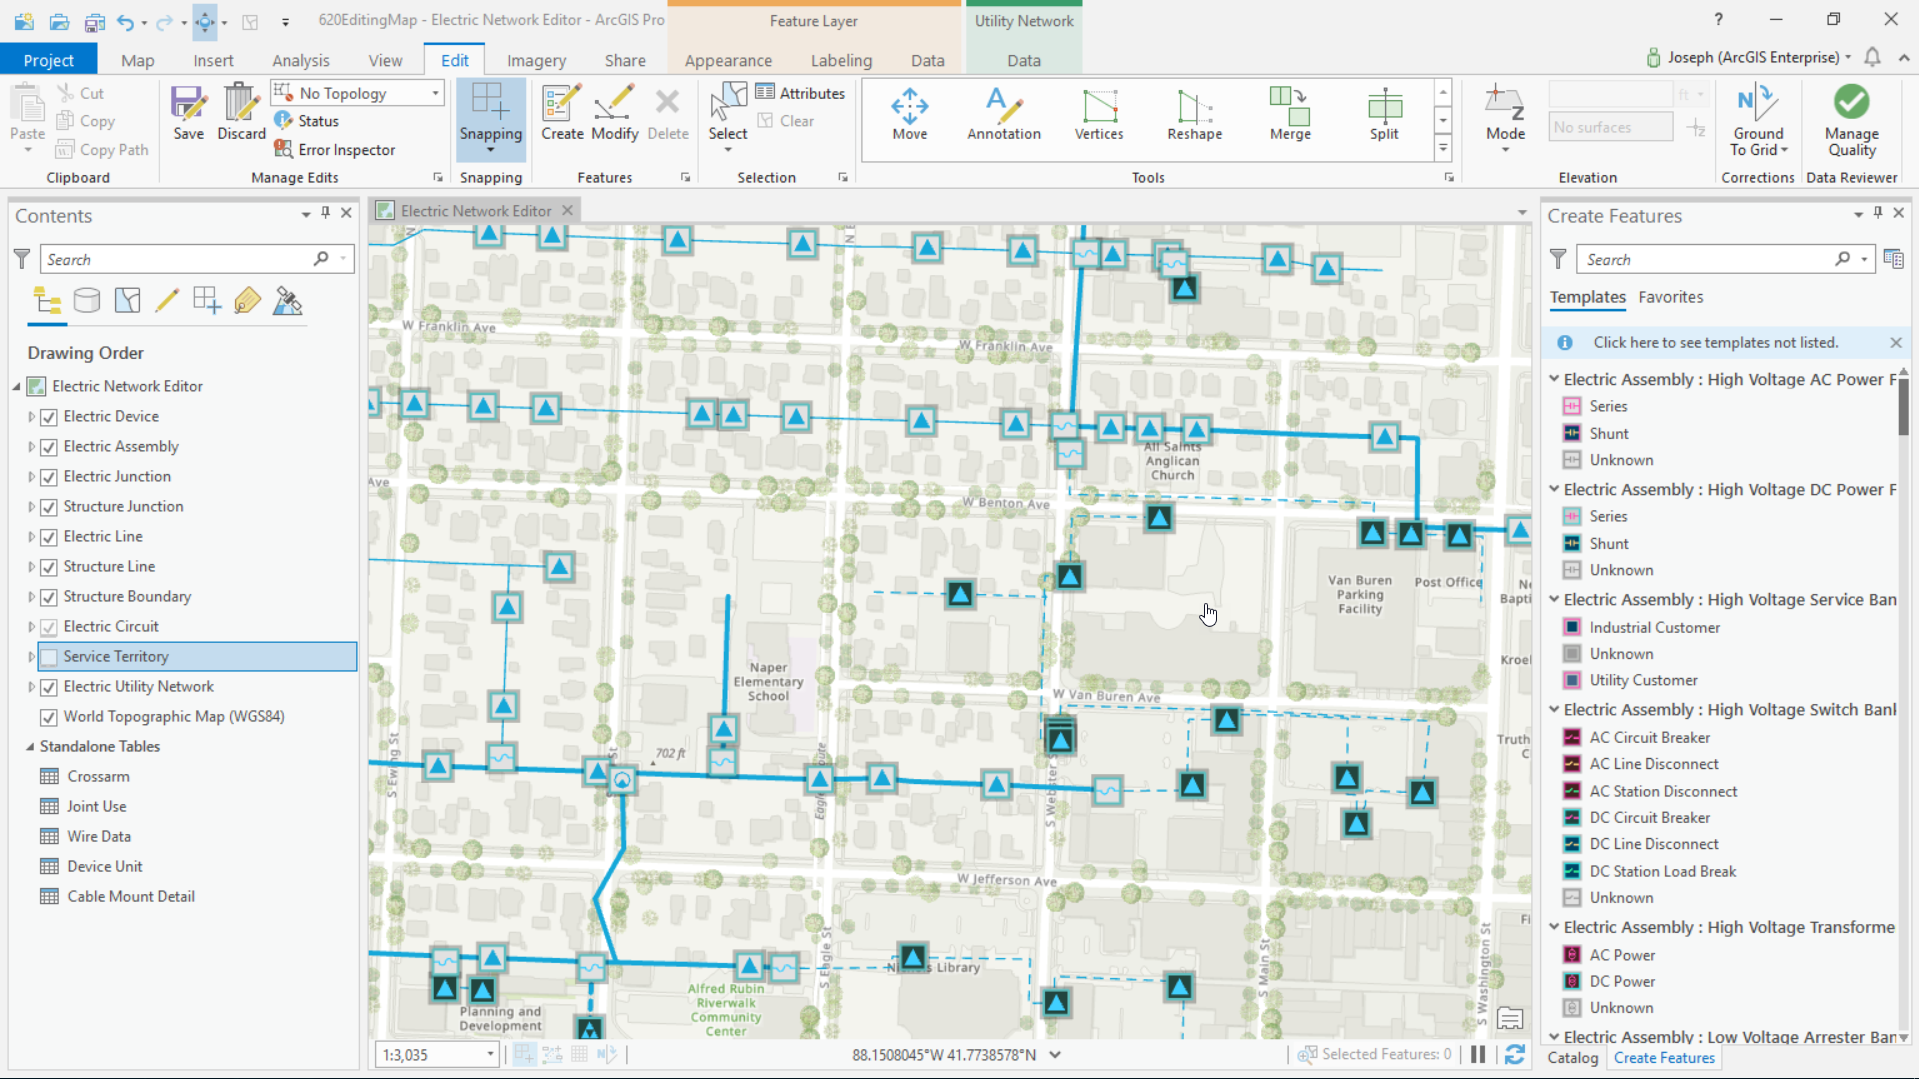
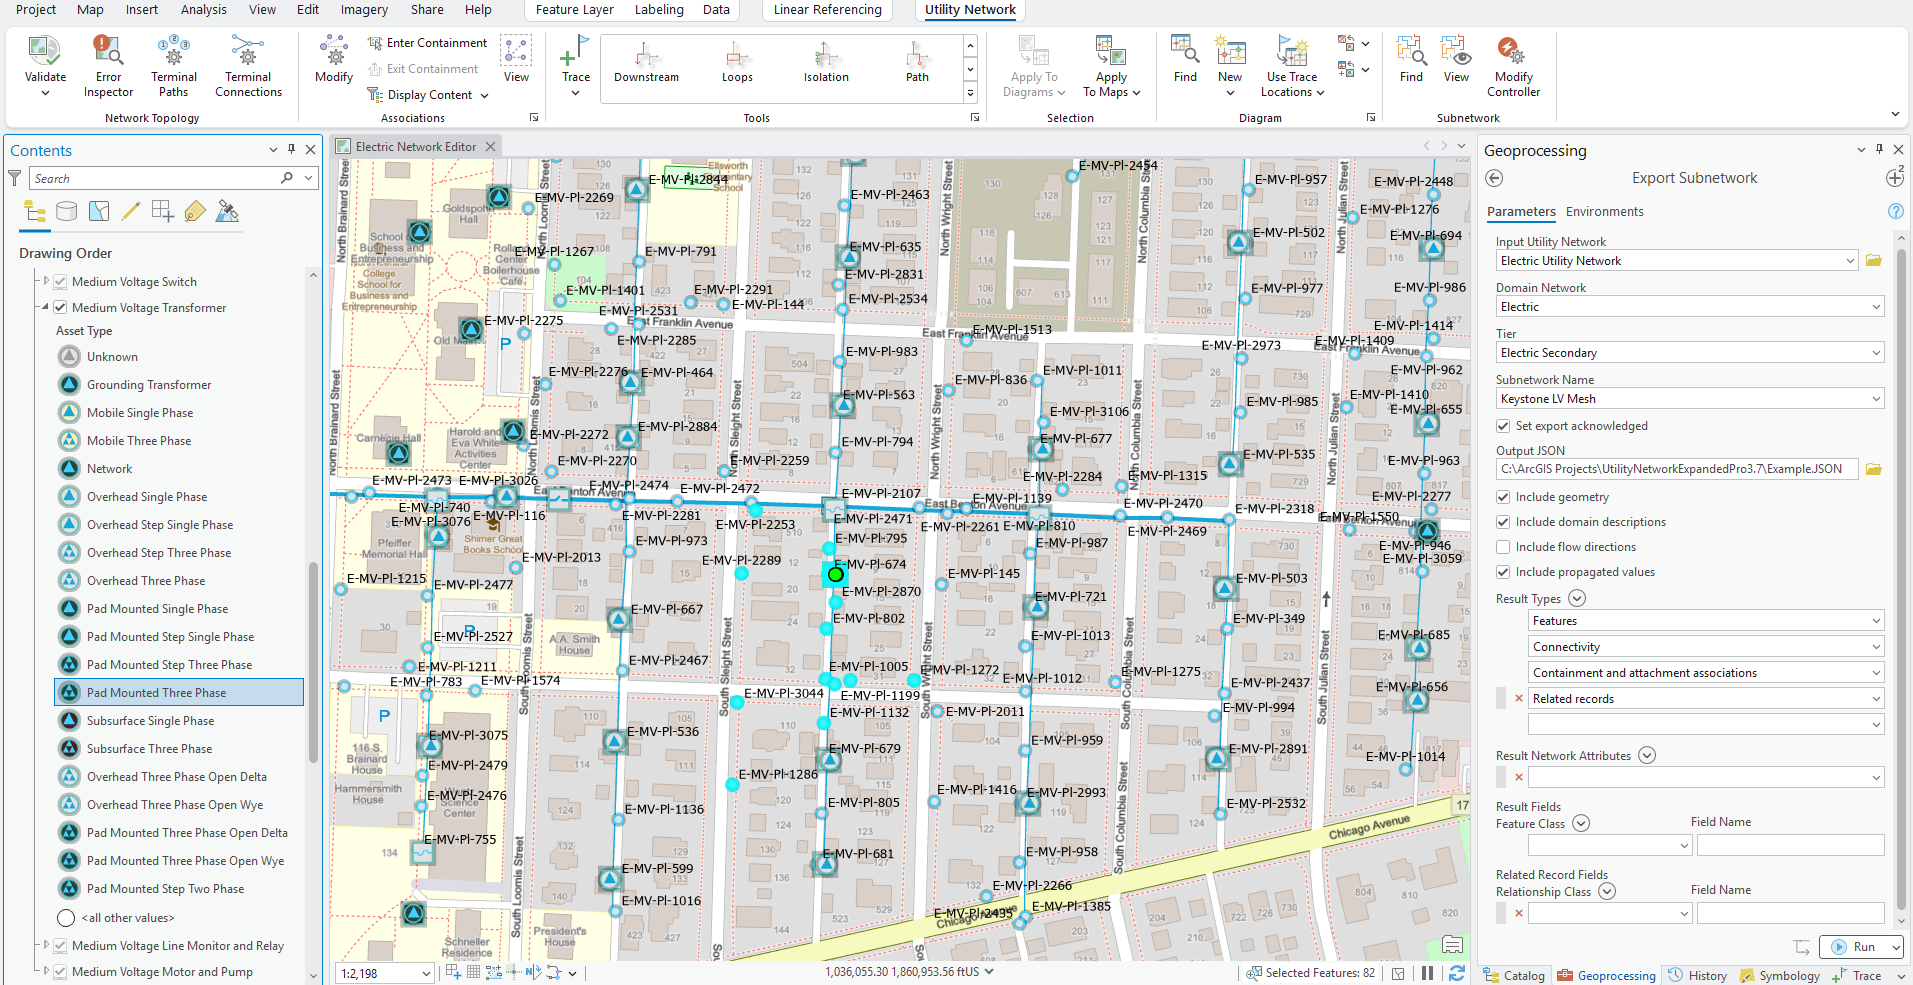
added screensshot

diff --git a/content/posts/2026-05-23-tracing-once-using-everywhere.md b/content/posts/2026-05-23-tracing-once-using-everywhere.md
@@ -2,9 +2,10 @@
 title: "Tracing Once, Using Everywhere: Propagated Values for OMS and ADMS"
 date: 2026-05-23T20:18:00-07:00
 draft: false
-description: "Why propagated values in traces and Export Subnetwork can reduce custom extractor, ETL, and middleware logic for OMS and ADMS integrations."
+description: "Using propagation and propagation resetters so OMS and ADMS get the values they need from a single GIS trace, without schema changes or excess glue code."
 tags:
   - arcgis utility network
+  - arcgis pro
   - oms
   - adms
   - integration
@@ -13,7 +14,8 @@ tags:
 categories:
   - utilities
   - gis
-mermaid: true
+ShowToc: true
+TocOpen: true
 cover:
   image: "/images/hooknose.jpg"
   alt: "Hooknose Peak"
@@ -22,52 +24,92 @@ cover:
 
 # Tracing Once, Using Everywhere: Propagated Values for OMS and ADMS
 
-ArcGIS Utility Network tracing already gives us the path through the network, but OMS and ADMS usually need more than a list of traversed features. Export Subnetwork is intended to produce JSON that external systems can consume, and propagated values let that export carry network-derived answers instead of forcing those systems to recalculate them downstream.
+ArcGIS Utility Network tracing already gives us the path through the network, but OMS and ADMS usually need more than a list of traversed features. Export Subnetwork can produce JSON that external systems consume, and propagation lets that export carry network‑derived answers instead of forcing those systems to recalculate everything downstream.
+
+ArcGIS Pro 3.7 and the 2026 Network Management Release finally closed a gap I’ve seen in a lot of OMS/ADMS projects. For years I’ve watched teams bolt on custom extractors, ETL, and middleware just to answer questions the Utility Network is already capable of answering:
+
+- What’s actually energized on this feeder?  
+- What does this device *see* from a phase/voltage perspective?
+
+With new propagation capabilities wired into traces and Export Subnetwork, we can start treating GIS as **the place where network behavior is modeled**, not just where assets live.
 
 ## Traces are necessary, but not sufficient
 
 A trace is great at answering a structural question: what is connected, and what can be traversed under the current rules. That matters for feeders, switching, outage impact, and operational analysis, but OMS and ADMS also care about the values each feature effectively sees as part of that traced path.
 
-If all we send downstream is a feature list, every extractor, ETL job, or middleware layer ends up re-deriving context that GIS already knows. That is where integrations get heavier than they need to be, especially when the real requirement is simple and the network model already contains the logic needed to compute the answer.
+If all we send downstream is a feature list, every extractor, ETL job, or middleware layer ends up re‑deriving context that GIS already knows. That is where integrations get heavier than they need to be, especially when the real requirement is simple and the network model already contains the logic needed to compute the answer.
 
 ## Connectivity, traversability, and propagation
 
 It helps to keep three ideas separate. Export Subnetwork can return connectivity information based on network features connected through geometric coincidence or connectivity associations, while traces use network attributes and conditions to determine what is actually traversable.
 
-- **Connectivity** is the structural graph: features are linked through geometric coincidence or valid associations in the network model.
-- **Traversability** is connectivity plus rules: the trace only moves through connected features that satisfy barriers, status, phase, or other network-attribute logic.
-- **Propagation** is the payoff: propagators derive values for features downstream of subnetwork controllers as features are traversed during update or analytic events.
+- **Connectivity** is the structural graph: features are linked through geometric coincidence or valid associations in the network model.  
+- **Traversability** is connectivity plus rules: the trace only moves through connected features that satisfy barriers, status, phase, or other network‑attribute logic.  
+- **Propagation** is the payoff: propagators derive values for features downstream of subnetwork controllers as features are traversed during subnetwork updates or analytic traces.
 
-That third part is what makes the result export-friendly for OMS and ADMS.
+That third part is what makes the result export‑friendly for OMS and ADMS.
 
-![Detailed network map with highlighted path](/images/network-detail.png)
+![ArcGIS Pro Utility Network pane screenshot](/images/network-detail.jpg) "Screenshot from ArcGIS Pro © Esri")
 
 ## Why OMS and ADMS need different values
 
-OMS and ADMS often need values that are not a simple copy of what sits on an individual GIS feature, because the useful operational value is frequently a network-derived value rather than a stored edit value. Propagation lets you create measurable fields, assign network attributes, and optionally store propagated values such as an energized phase that is derived from traversal logic.
+OMS and ADMS often need values that are not a simple copy of what sits on an individual GIS feature, because the useful operational value is frequently a **network‑derived** value rather than a stored edit value.
 
-That difference matters in practice. GIS might store configured phase or asset settings one way, while OMS or ADMS needs the effective phase, limiting value, or downstream state as seen from the feeder or controller context.
+A few examples:
+
+- OMS cares which customers are affected on which phases behind a given protection device, not just the raw feature geometry.  
+- ADMS wants the effective phase, limiting voltage, or downstream state as seen from the feeder or controller context, not just whatever is in a single asset field.  
+- Both may expect “as‑energized” or “as‑operated” values that differ from simple as‑built configuration.
+
+Propagation lets you create measurable fields, assign network attributes, and optionally store or export propagated values such as an energized phase that is derived during traversal, instead of being hand‑maintained on every feature.
 
 ## When code freezes block schema changes
 
 I’ve worked with utilities, a GIS vendor, and an ADMS vendor where neither side wanted to make a schema change because a code freeze was already in place. The ask was usually simple, but the delivery path turned into custom extractor extensions, extra ETL logic, and middleware rules to solve something GIS could already reason about from the network.
 
-That pattern is expensive because every downstream component ends up re-implementing a little bit of network intelligence outside the Utility Network. By contrast, propagation lets you configure how values are derived during traversal, and Export Subnetwork can emit JSON for external systems, which is exactly why propagating values for export feels so sweet in this integration space.
+That pattern is expensive because every downstream component ends up re‑implementing a little bit of network intelligence outside the Utility Network. By contrast, propagation lets you configure how values are derived during traversal, and Export Subnetwork can emit JSON for external systems, which is exactly why propagating values for export feels so sweet in this integration space.
 
 > **Code freeze reality**  
 > When neither vendor wants a schema change, teams often compensate by extending extractors, layering ETL transforms, or teaching middleware to infer context that the network already knows. Propagated values shift that logic closer to the source by letting the trace or subnetwork export carry the answer downstream.
 
 ## Why propagation is the elegant option
 
-Attribute propagation is configured in the Utility Network by defining fields, coded domains, inline network attributes, and propagators in the subnetwork definition so values can be derived as traversal occurs. Export Subnetwork also supports including network attributes and producing JSON for external systems, which makes it a natural handoff point for OMS and ADMS integration patterns.
+Attribute propagation is configured in the Utility Network by defining fields, coded domains, inline network attributes, and propagators in the subnetwork definition so values can be derived as traversal occurs. Export Subnetwork can then include those propagated values and other network attributes in a JSON payload that external systems can consume.
 
-That means you can change the **behavior** of the trace result without demanding a physical schema change in every connected system. In a frozen environment, that is often the difference between a clean configuration-driven solution and one more layer of custom logic that someone will have to maintain for years.
+That means you can change the **behavior** of the trace result without demanding a physical schema change in every connected system. In a frozen environment, that is often the difference between a clean configuration‑driven solution and one more layer of custom code someone will have to maintain for years.
 
 ## A practical example
 
-Imagine GIS stores configured phase on devices and lines, but ADMS really wants the effective energized phase as seen downstream from the controller. A common pattern is to pair a field such as “Phases Current” with an inline network attribute and an optional propagated field such as “Phases Energized,” using coded values for A, B, C, and their combinations.
+Imagine GIS stores configured phase on devices and lines, but ADMS really wants the effective energized phase as seen downstream from the controller.
 
-In that model, the propagated value is derived during traversal rather than manually maintained on every feature. Once Export Subnetwork includes the relevant results, the integration can map the exported value into OMS or ADMS logic without adding another permanent field to every downstream schema.
+A common pattern:
+
+- A field such as `Phases_Current` holds configured phase.  
+- An inline network attribute points at that field.  
+- A propagated attribute such as `Phases_Energized` is defined.  
+- A propagation function (for example, bitwise AND) carries energized phase along traversable paths based on controller values and device configuration.
+
+In that model, the propagated value is derived during traversal rather than manually maintained on every feature. Once Export Subnetwork includes the relevant results, the integration can map the exported energized phase into OMS or ADMS logic **without** adding another permanent field to every downstream schema.
+
+## Using propagation resetters in electric networks
+
+ArcGIS Pro 3.7 and the 2026 Network Management Release also added **propagation resetters**, which let you mark places in the network where a propagated value should effectively “start over” instead of just inheriting whatever came from upstream. During a trace, when a feature with the *Propagator Resetter* network category is encountered, its own value becomes the new propagated value and is carried downstream from there.
+
+In electric models, this is really useful anywhere the system intentionally re‑establishes conditions:
+
+- **Downstream phase correction points**  
+  Devices like tie switches, pad‑mount transformers, or switching cabinets can be treated as authoritative sources for `Phases_Current`. When you tag them as resetters, the propagated `Phases_Energized` value snaps to the device’s phasing at that point and continues from there, instead of letting messy upstream history leak through.
+
+- **Voltage level transitions**  
+  Primary‑to‑secondary transformers, voltage regulators, or network protectors can reset a propagated “Nominal Voltage” or “Voltage Tier” attribute. Upstream might be 12 kV, but once you hit the transformer marked as a resetter, the downstream network correctly carries 4 kV (or whatever the secondary level is) without complex rating logic across the whole path.
+
+- **Feeder, zone, or section boundaries**  
+  Breakers, reclosers, or sectionalizing devices that define a protection zone or logical section can reset attributes like “Section ID” or “Operational Zone.” Propagation then carries a clean section/zone identifier per chunk of the network, which maps much more naturally into OMS/ADMS logic.
+
+- **Trusted checkpoints in noisy data**  
+  In areas where upstream data is imperfect but a few devices have been surveyed and kept correct, marking those devices as resetters lets propagated attributes recover at known‑good points. The trace will “snap back to truth” there, instead of blindly inheriting upstream errors.
+
+In other words, propagation resetters give you **authoritative checkpoints** for propagated attributes like phase, voltage, or operational zone. Combined with Export Subnetwork, that means OMS and ADMS can receive not just a propagated value, but one that has been corrected at the same key devices your field crews and operators already trust.
 
 ## From trace to OMS/ADMS
 
@@ -77,32 +119,44 @@ flowchart TB
       A[Network model<br/>Connectivity and associations,<br/>attributes, phasing]
     end
 
-    subgraph TRACE["Traversal logic"]
+    subgraph TRACE["Traversal & Propagation"]
       B[Run trace<br/>Connected plus traversable]
-      C[Propagate values<br/>Phase, voltage, pressure, status]
-      D[Derive context<br/>What each feature effectively sees]
+      C[Propagate values<br/>Phase, voltage, status, zone]
+      D[Apply resetters<br/>Authoritative checkpoints]
+      E[Derived context<br/>What each feature effectively sees]
     end
 
     subgraph EXPORT["Export"]
-      E[Export Subnetwork JSON<br/>IDs, attributes, derived values]
+      F[Export Subnetwork JSON<br/>IDs, attributes, propagated values]
     end
 
     subgraph SYSTEMS["Downstream systems"]
-      F[OMS<br/>Outage impact and affected customers]
-      G[ADMS<br/>Operations and analysis]
+      G[OMS<br/>Outage impact and affected customers]
+      H[ADMS<br/>Operations, switching, analysis]
     end
 
-    A --> B --> C --> D --> E
-    E --> F
-    E --> G
+    A --> B --> C --> D --> E --> F
+    F --> G
+    F --> H
 ```
 
-This is the pattern I like most: trace once in GIS, propagate the values that matter, and export results in a form OMS and ADMS can consume. It keeps the network intelligence close to the network instead of scattering it across extractors, ETL, and middleware.
+This is the pattern I like most:
+
+- Trace once in GIS.  
+- Propagate the values that matter (phase, voltage, status, zones).  
+- Use resetters to keep those values honest at key devices.  
+- Export results in a form OMS and ADMS can consume.
+
+It keeps the network intelligence close to the network instead of scattering it across extractors, ETL, and middleware.
 
 ![Electric operations control room](/images/controlroom.jpg)
 
 ## Why this scales better
 
-A static-field strategy sounds simple at first, but it tends to spread operational assumptions across multiple systems and teams. Propagation centralizes the logic in the Utility Network’s configuration, and Export Subnetwork provides a JSON-based delivery path for external consumers.
+A static‑field strategy sounds simple at first, but it tends to spread operational assumptions across multiple systems and teams. Every time something changes, someone has to remember all the places those assumptions live.
 
-That is why I see propagated trace and subnetwork export results as more than a nice feature. They are a practical way to reduce unnecessary integration code when OMS and ADMS need values that differ from raw GIS storage or from what other downstream systems expect.
+Propagation and propagation resetters centralize the logic in the Utility Network’s configuration, and Export Subnetwork provides a JSON‑based delivery path for external consumers. That is why I see propagated trace and subnetwork export results as more than a nice feature: they are a practical way to reduce unnecessary integration code when OMS and ADMS need values that differ from raw GIS storage or from what other downstream systems expect.
+
+---
+
+If your integration diagrams have more boxes labeled “glue code” than actual systems, it might be time to let the trace engine do more of the thinking.